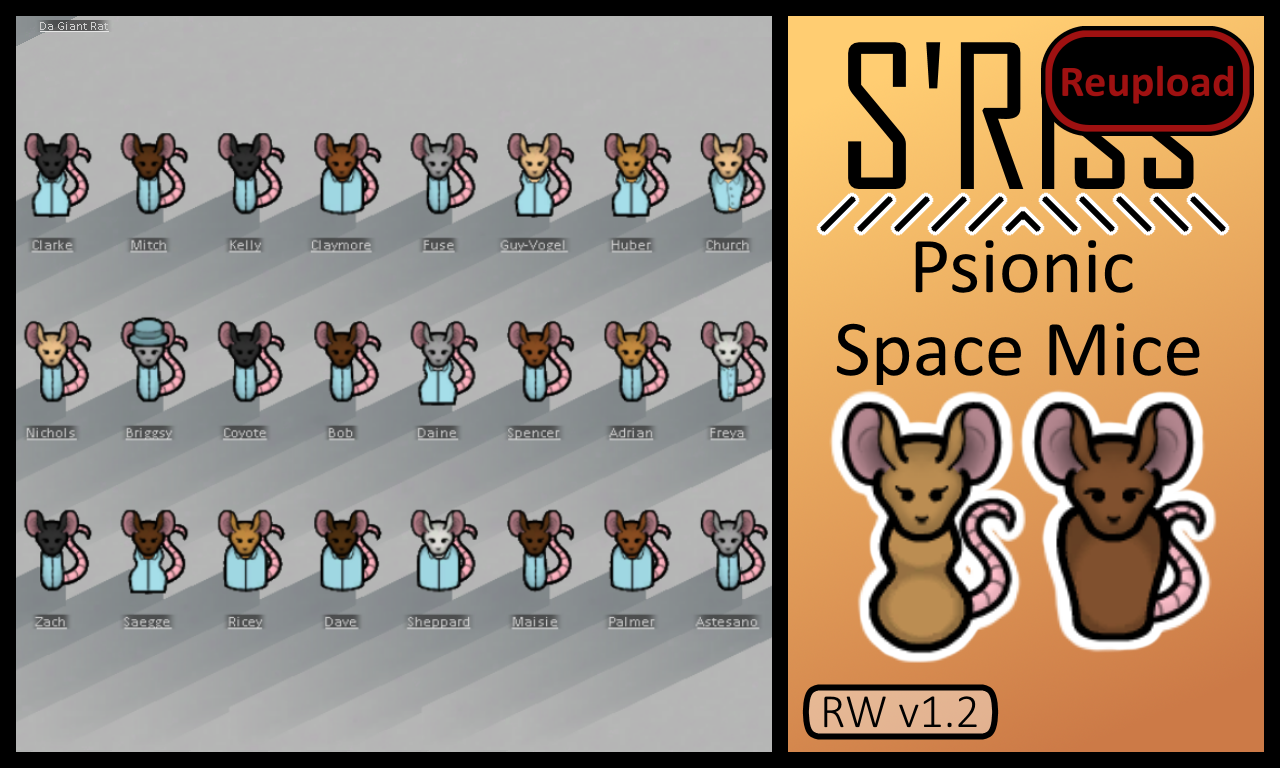
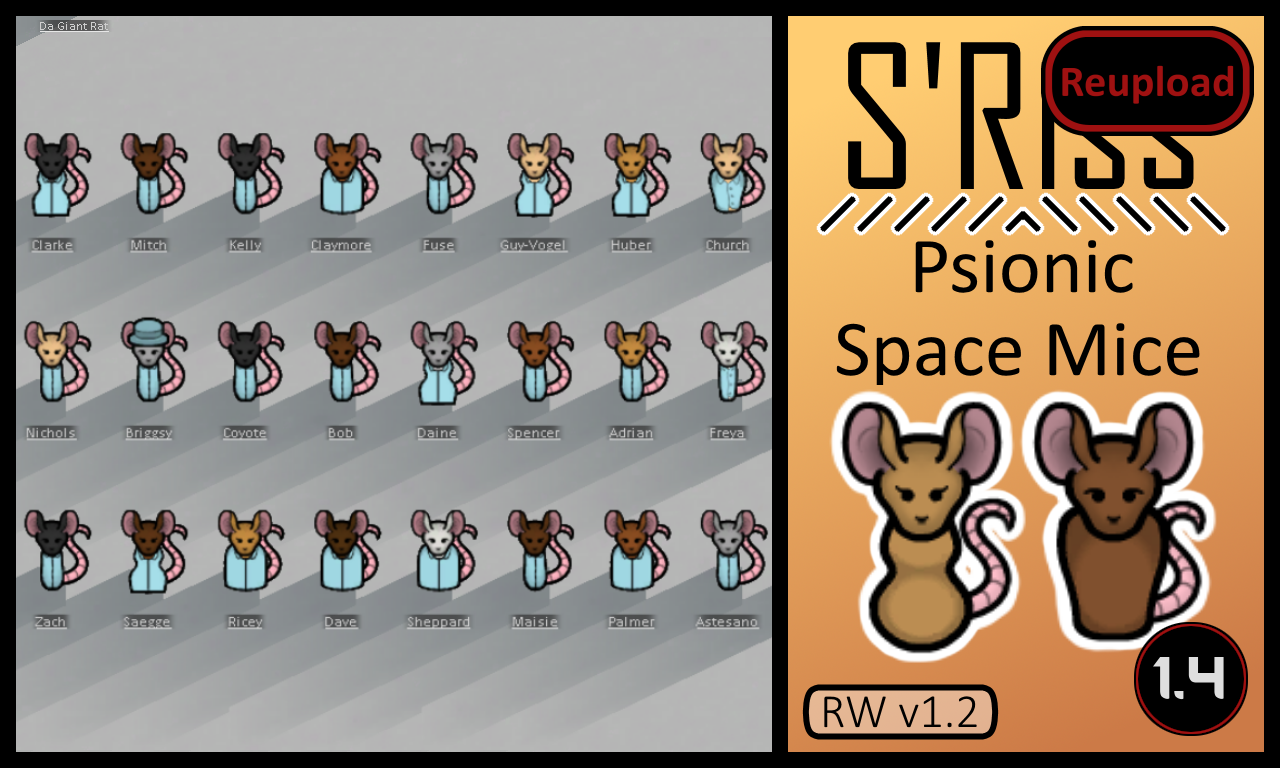
Last update, added end-of-life message

Changed region(s): [[0.875, 0.8125, 1.0, 0.9688]]

diff --git a/README.md b/README.md
@@ -7,7 +7,7 @@ https://steamcommunity.com/sharedfiles/filedetails/?id=2236489060
 
 - Faction is no longer permanent enemy of the Empire
 
-![Image](https://i.imgur.com/pufA0kM.png)
+![Image](https://i.imgur.com/KFjAmff.png)
 
 	
 ![Image](https://i.imgur.com/Z4GOv8H.png)
@@ -41,12 +41,13 @@ This mod adds a race of Psionic Space Mice to Rimworld.
 
 -  See if the the error persists if you just have this mod and its requirements active.
 -  If not, try adding your other mods until it happens again.
--  Post your error-log using https://steamcommunity.com/workshop/filedetails/?id=818773962]HugsLib and command Ctrl+F12
+-  Post your error-log using https://steamcommunity.com/workshop/filedetails/?id=818773962]HugsLib or the standalone https://steamcommunity.com/sharedfiles/filedetails/?id=2873415404]Uploader and command Ctrl+F12
 -  For best support, please use the Discord-channel for error-reporting.
 -  Do not report errors by making a discussion-thread, I get no notification of that.
 -  If you have the solution for a problem, please post it to the GitHub repository.
+-  Use https://github.com/RimSort/RimSort/releases/latest]RimSort to sort your mods
 
 
 
+https://steamcommunity.com/sharedfiles/filedetails/changelog/2573202453]![Image](https://img.shields.io/github/v/release/emipa606/SRissPsionicSpaceMiceOfRimworld?label=latest%20version&style=plastic&color=9f1111&labelColor=black)
 
-https://steamcommunity.com/sharedfiles/filedetails/changelog/2573202453]Last updated 2023-01-09
